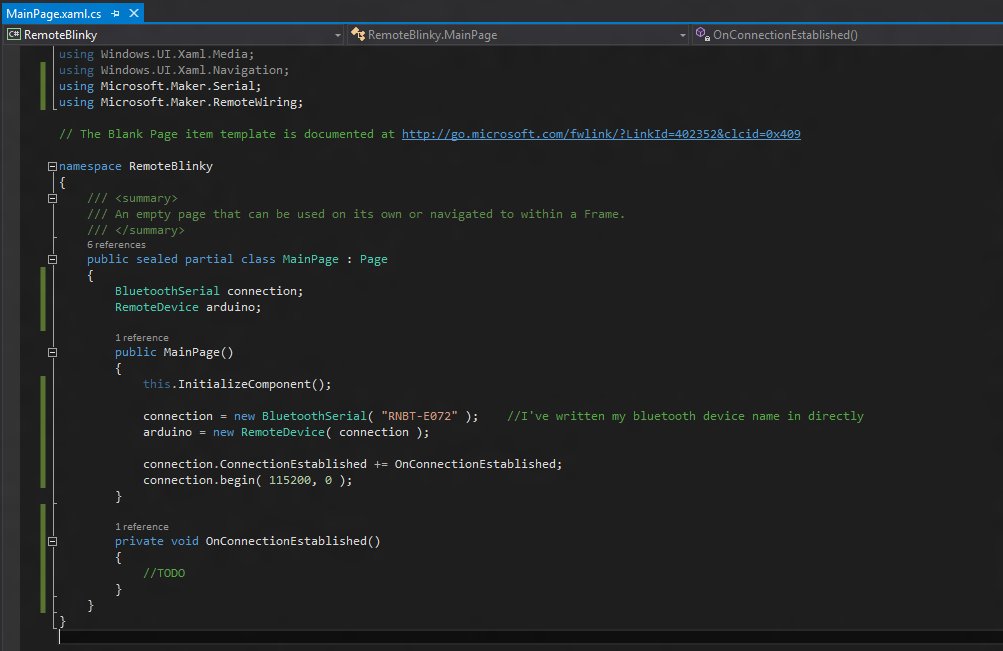
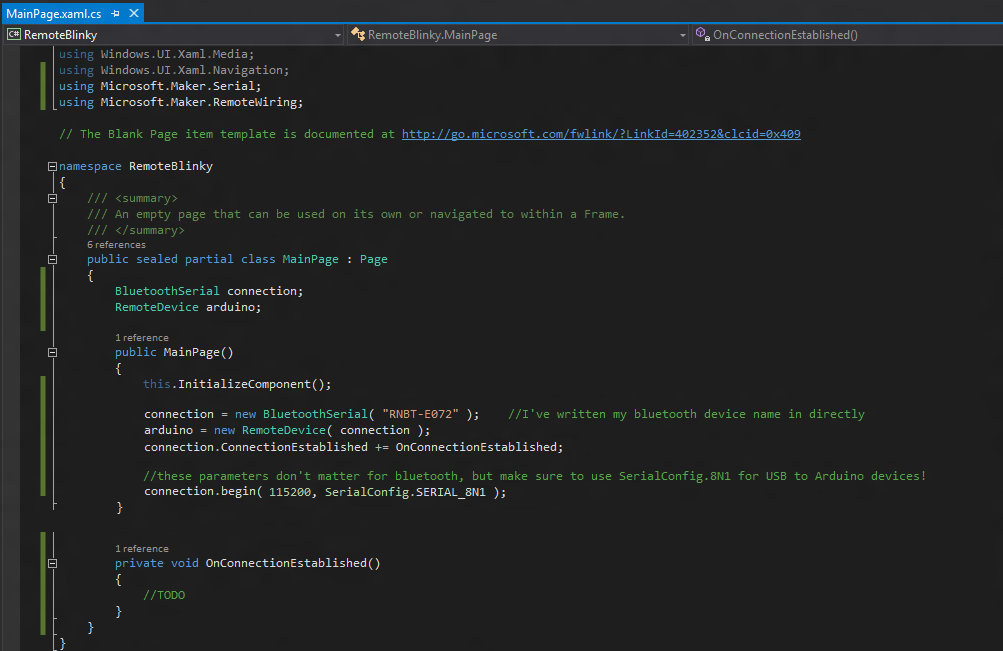
Updated docs and two images

diff --git a/win10/samples/BasicWRA.md b/win10/samples/BasicWRA.md
@@ -119,10 +119,11 @@ is guaranteed to work **only** for the following hardware device:
 	
 ![USB Device]({{site.baseurl}}/images/remote-wiring/samples/basic/vidpid.png)
 
-- Next, I'm going to add a callback function to the ConnectionEstablished event on the BluetoothSerial object. This function will automatically be called when the Bluetooth device is connected. You'll notice that I haven't implemented anything in that function at this time. Last, call `.begin()` on the connection object to tell it to connect.
+Next, I'm going to add a callback function to the ConnectionEstablished event on the BluetoothSerial object. This function will automatically be called when the Bluetooth device is connected. You'll notice that I haven't implemented anything in that function at this time. Last, call `.begin()` on the connection object to tell it to connect.
 
 ###Note for USB:
-The USBSerial class still has a ConnectionEstablished event that you can subscribe to. It will always be invoked at the proper time in both classes, so you are absolutely able to reuse your code in either scenario! The rest of the example will work exactly the same regardless of which connection type you are using!
+The USBSerial class still has a ConnectionEstablished event that you can subscribe to. It will always be invoked at the proper time in both classes, so you are able to reuse your code in either scenario!
+However, be aware that the `.begin()` function must be called before any connection attempt will be made. The parameters to the `.begin()` function *do not matter* for Bluetooth, but you must use `SerialConfig.8N1` as the 2nd parameter if you are connecting to an Arduino device! The rest of the example will work exactly the same regardless of which connection type you are using.
 
  ![Project Start]({{site.baseurl}}/images/remote-wiring/samples/basic/project01.png)
 
